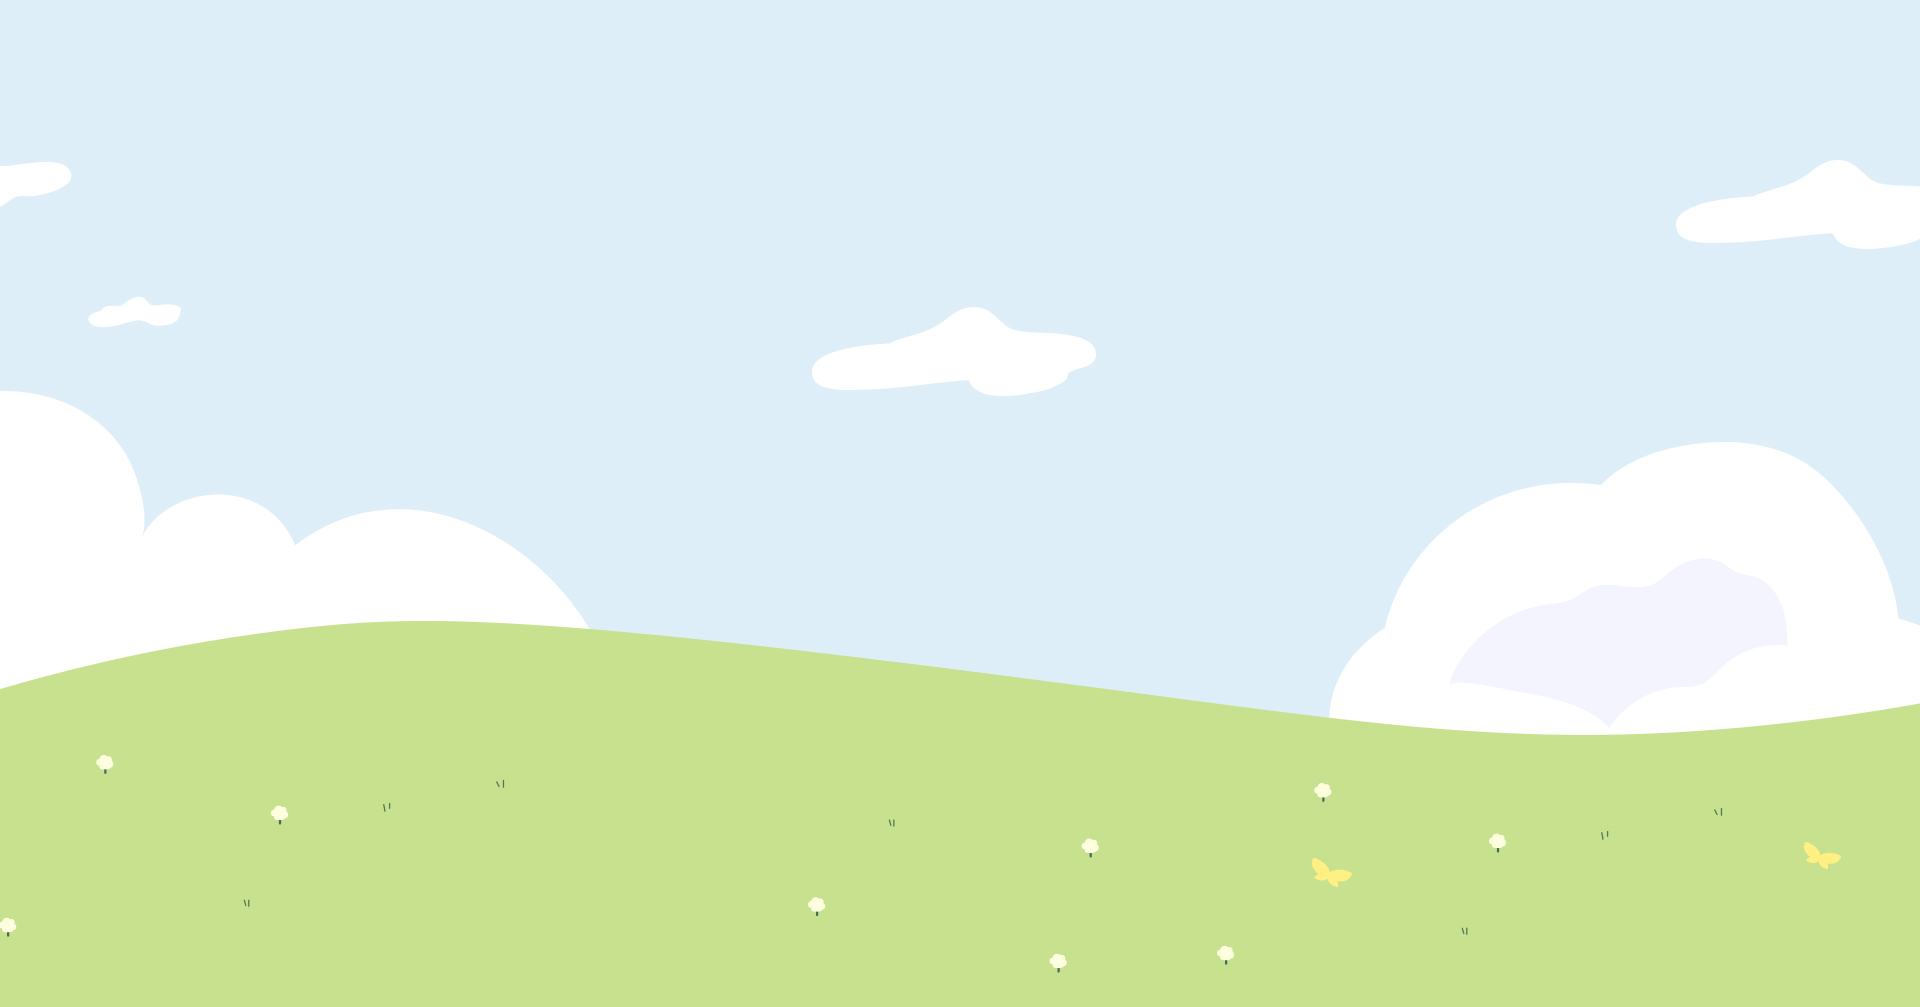
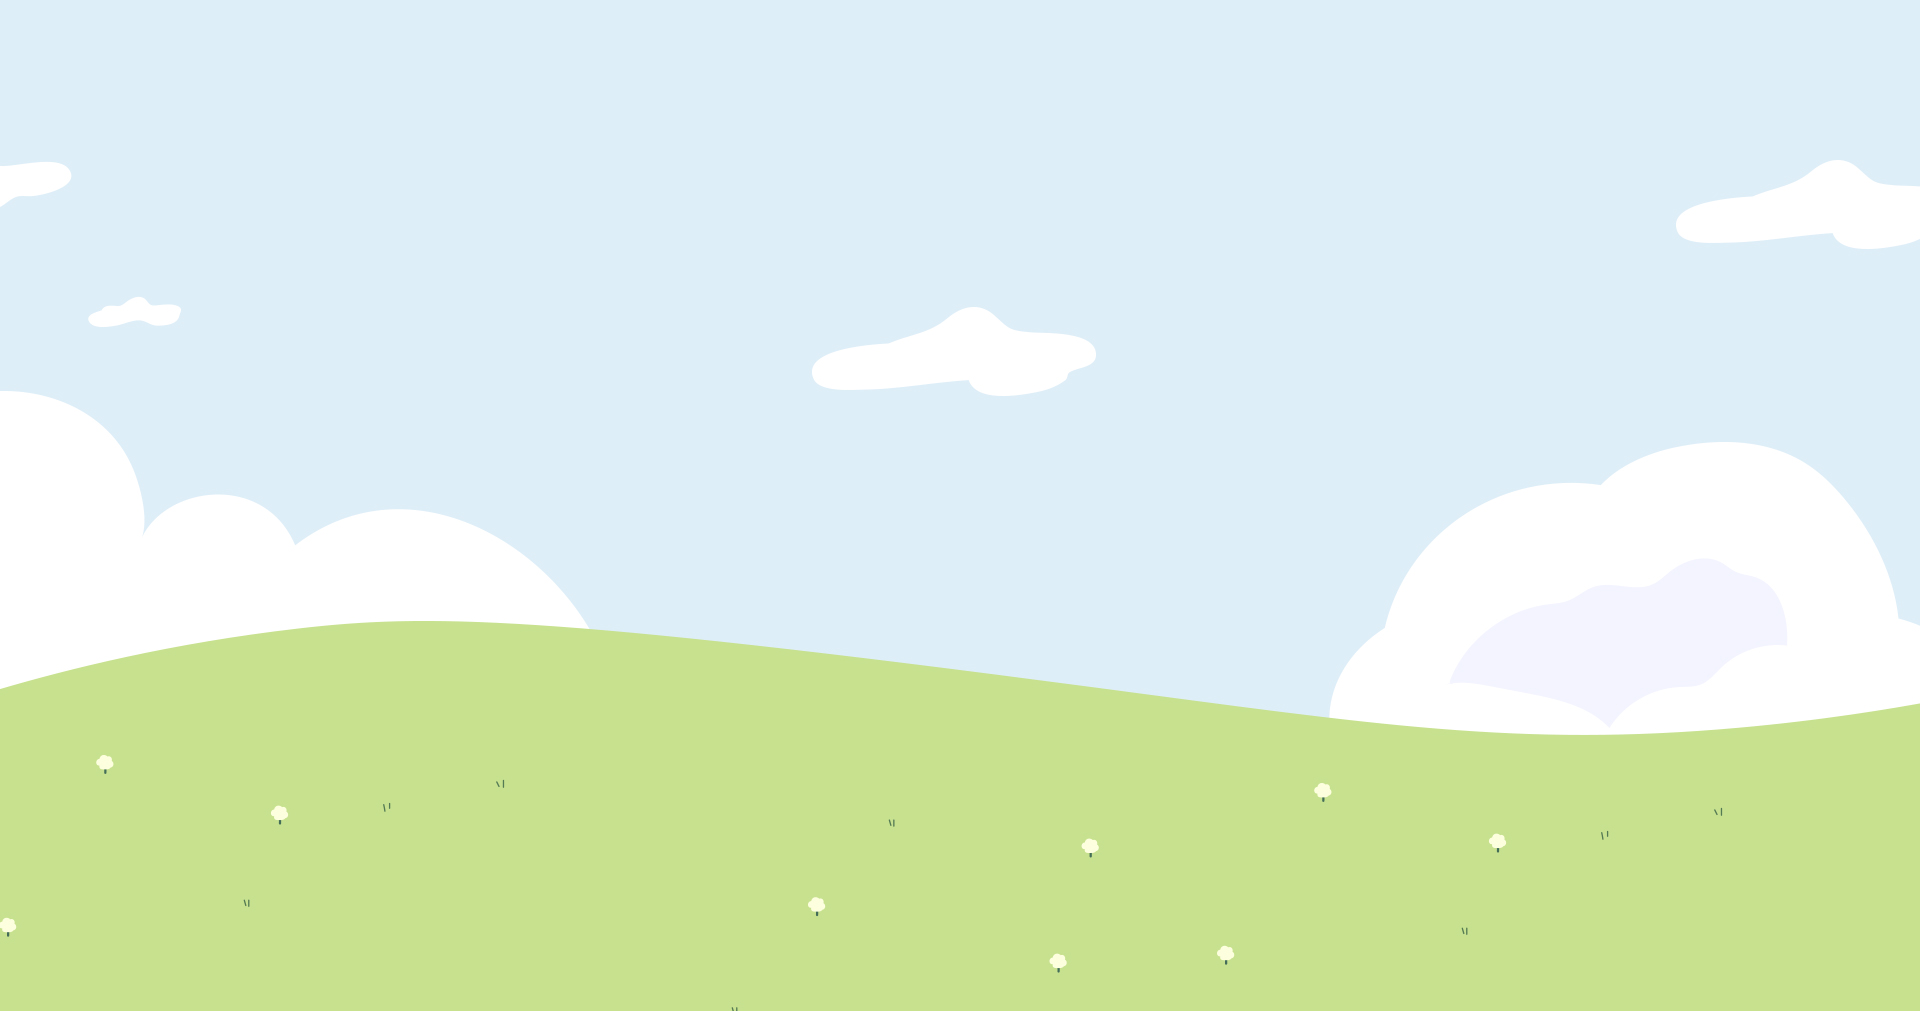
Add: 반응형 추가

diff --git a/html/_skin/scss/import/_main.scss b/html/_skin/scss/import/_main.scss
@@ -10,6 +10,18 @@
   background: no-repeat center/cover;
   height: $main-pc-visual-height;
 
+  &:after {
+    content: "";
+    display: block;
+    position: absolute;
+    top: 0;
+    left: 0;
+    width: 100%;
+    height: 100%;
+    @include transform(translateY(100%));
+    background: url(/html/_skin/img/main/bg_mv_grond.jpg) no-repeat center/cover;
+  }
+
   .obj {
     position: absolute;
     line-height: 0;
@@ -101,7 +113,7 @@
   .obj-dog2 {
     z-index: 3;
     top: 76%;
-    right: 14%;
+    right: 18%;
   }
 
   .obj-butterfly {
@@ -236,6 +248,9 @@
   @include sm-max {
     .obj-house {
       // display: none;
+      width: 250px;
+      top: 530px;
+      right: -10%;
     }
   }
 }
@@ -548,12 +563,13 @@
   position: relative;
   padding-top: 0;
   padding-bottom: 0;
-  margin-top: -8.75rem;
+  margin-top: -7.5rem;
 
   .bg {
     line-height: 0;
     display: block;
-    width: 100%;
+    width: 110%;
+    margin-left: -5%;
   }
 
   .obj {
@@ -662,6 +678,8 @@
   @include md-min {}
 
   @include lg-min {
+    margin-top: -5rem;
+
     .bg-obj-2 {
       display: inline-block;
     }

diff --git a/html/_skin/scss/pages/_about.scss b/html/_skin/scss/pages/_about.scss
@@ -994,6 +994,12 @@
   }
 }
 
+.lunch-box--page .section-01 {
+  .sub_cont_tit + p {
+    line-height: 1.5;
+  }
+}
+
 .lunch-box--page .section-apply {
   padding-top: 0;
 
@@ -1208,6 +1214,7 @@
       font-weight: 800;
       padding-top: 1.22em;
       padding-bottom: 1.22em;
+      min-width: 8em;
 
       > span {
         margin-right: 0;
@@ -1297,6 +1304,39 @@
         display: block;
         margin-left: 0;
         margin-top: 4px;
+      }
+    }
+
+    .form-btns__box {
+      .btn_theme {
+        font-size: 0.875rem;
+      }
+
+      .btn-list {
+        margin: -5px -5px 0;
+
+        > li {
+          padding: 5px;
+        }
+      }
+    }
+  }
+
+  @include sm-max {
+    .form-btns__box {
+      -ms-flex-wrap: wrap;
+      flex-wrap: wrap;
+
+      .btn_theme {
+        width: 100%;
+      }
+
+      .btn-list {
+        width: calc(100% + 10px);
+
+        > li {
+          flex: 1;
+        }
       }
     }
   }

diff --git a/html/_skin/scss/import/_sub.scss b/html/_skin/scss/import/_sub.scss
@@ -1517,7 +1517,10 @@ figure.img_full_wrap figcaption {
       top: 0;
       left: 1px;
       cursor: pointer;
-      display: table;
+      // display: table;
+      @include d-inline-flex-wrap;
+      @include align-items-center;
+      @include justify-content-center;
       width: calc(8.375rem + 1px);
       height: 100%;
       padding: 0.2rem 1rem;
@@ -1536,8 +1539,10 @@ figure.img_full_wrap figcaption {
       transition-property: background-color;
 
       > span {
-        display: table-cell;
-        vertical-align: middle;
+        // display: table-cell;
+        display: block;
+        width: 100%;
+        // vertical-align: middle;
         line-height: 1.12em;
       }
 

diff --git a/html/_skin/scss/import/_common.scss b/html/_skin/scss/import/_common.scss
@@ -2481,7 +2481,13 @@ ul.footer-bottom-link {
 }
 
 @include xl-max {
-  #footer {}
+  #footer {
+    .footer-logo {
+      width: 8.3125rem;
+      margin-left: auto;
+      margin-right: auto;
+    }
+  }
 }
 
 @include md-max {

diff --git a/html/_skin/layout/inc_top_menu.php b/html/_skin/layout/inc_top_menu.php
@@ -104,10 +104,11 @@ else {
 ?>
               <a href="/member/form-edit"><?=_LANG('Mypage')?></a>
 <?php
-  }
+  } else {
 ?>
               <a href="/index.php?tpf=_module/member/logout"><?=_LANG('로그아웃')?></a>
 <?php
+  }
 }
 ?>
             </li>
